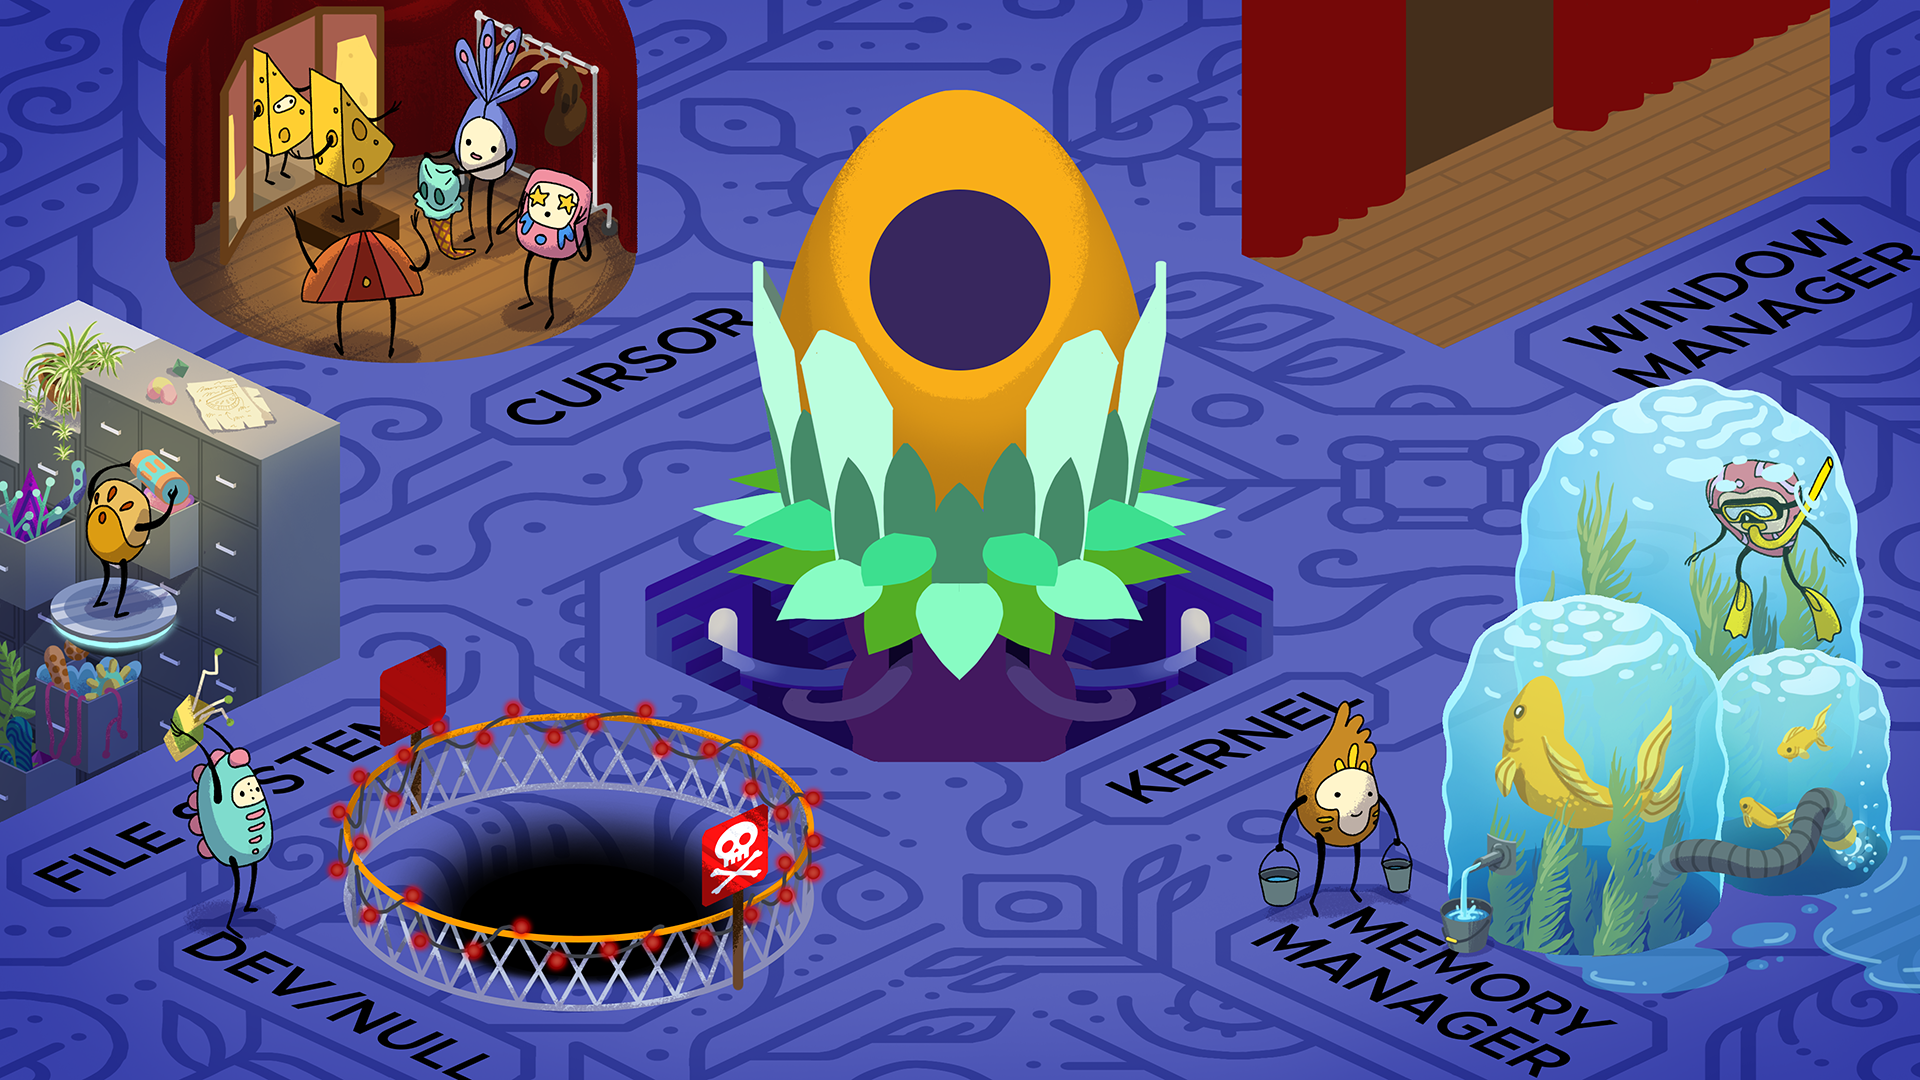
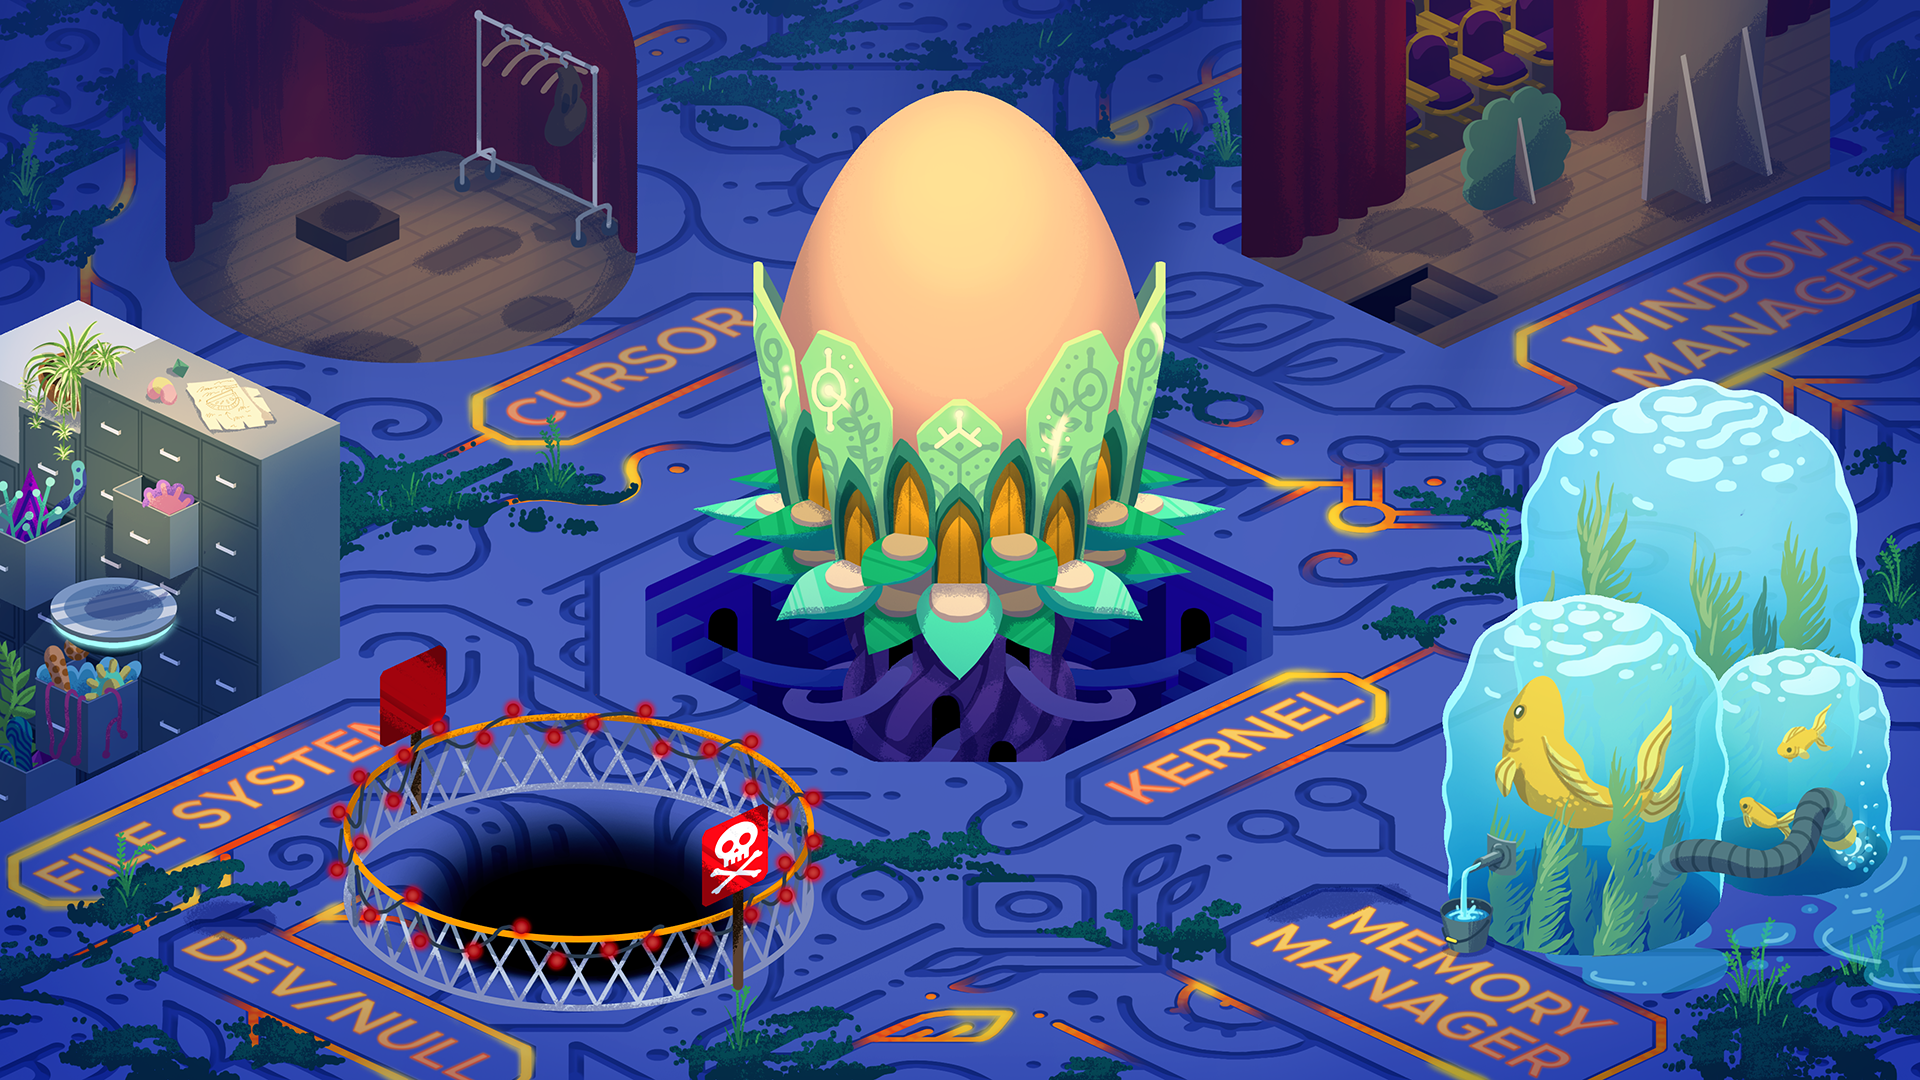
OperatingSystemApp: add first daemon animation and update background
https://phabricator.endlessm.com/T24284

diff --git a/com.endlessm.OperatingSystemApp/app/animation.js b/com.endlessm.OperatingSystemApp/app/animation.js
@@ -1,0 +1,57 @@
+const Animations = [];
+
+function step(timestamp) {
+
+    Animations.forEach(function(element) {
+        var img = element._currentFrame;
+
+        if (!element._lastUpdated)
+            element._lastUpdated = timestamp;
+
+        var elapsed = timestamp - element._lastUpdated;
+
+        if (elapsed >= img._delay) {
+            img.style.visibility = 'hidden';
+
+            /* Show next frame */
+            var next = img.nextElementSibling ? img.nextElementSibling : element.firstElementChild;
+
+            next.style.visibility = 'visible';
+            element._lastUpdated = timestamp;
+
+            element._currentFrame = next;
+        }
+    });
+
+    requestAnimationFrame(step);
+}
+
+function animation_bootstrap()
+{
+    var elements = document.querySelectorAll( "div.Animation" );
+
+    /* Initialize all animation */
+    elements.forEach(function(element) {
+        var frameTiming = JSON.parse(element.attributes['data-frames'].value);
+
+        for (var i = 1, n = frameTiming.length; i <= n; i++) {
+            var img = document.createElement ('img');
+
+            img._delay = frameTiming[i-1];
+            img.src = `images/${element.id}/${i}.png`;
+            img.style.visibility = i === 1 ? 'visible' : 'hidden';
+
+            element.appendChild(img);
+        }
+
+        element._currentFrame = element.firstElementChild;
+
+        Animations.push(element);
+    });
+
+    requestAnimationFrame(step);
+}
+
+/* Bootstrap animations */
+animation_bootstrap();
+

diff --git a/com.endlessm.OperatingSystemApp/app/index.html b/com.endlessm.OperatingSystemApp/app/index.html
@@ -7,6 +7,15 @@
   </head>
 
   <body>
+    <div id="OS_daemon_1"
+         class="Animation"
+         style="left: 1329px; top: 0px;"
+         data-frames="[1672, 96, 96, 96, 672, 96, 96, 96]">
+    </div>
+
+    <img id="lighting" src="images/lighting.png"/>
+
+    <script type = "text/javascript" src = "animation.js"></script>
   </body>
 </html>
 

diff --git a/com.endlessm.OperatingSystemApp/app/custom.css b/com.endlessm.OperatingSystemApp/app/custom.css
@@ -1,5 +1,15 @@
+div.Animation,
+div.Animation > img {
+  position: absolute;
+}
+
 body {
-  background: url('images/background.png') no-repeat center center fixed;
-  background-size: cover;
+  margin: 0px;
+  overflow: hidden;
+  background: url('images/background.png') no-repeat;
+}
+
+body > * {
+  position: absolute;
 }
 
